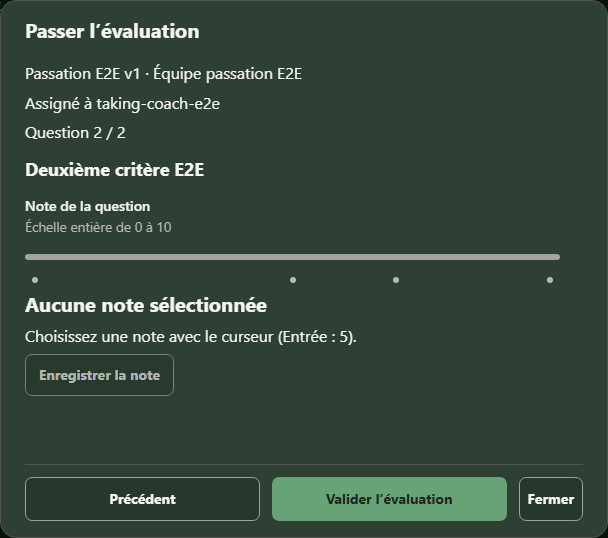
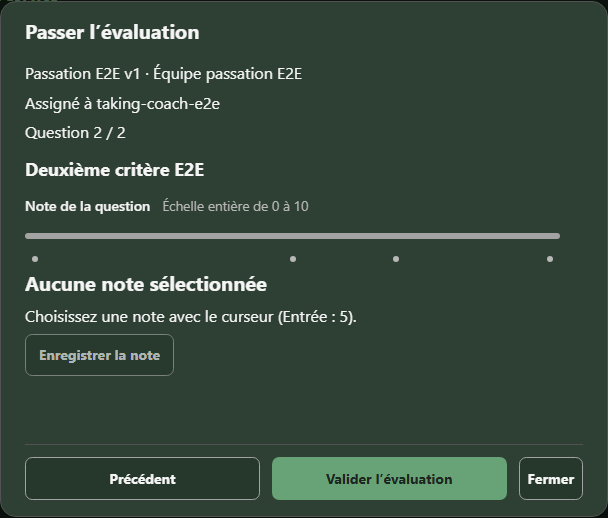
fix(mep-044): keep rating scale within compact dialog bounds

diff --git a/frontend/e2e/evaluation-rating-scale.spec.ts b/frontend/e2e/evaluation-rating-scale.spec.ts
@@ -71,6 +71,13 @@ for (const viewport of [
       .click();
     const dialog = page.getByRole("dialog");
     const slider = dialog.getByRole("slider");
+    if (viewport.width >= 1280) {
+      const label = (await dialog
+        .locator(".taking-content .taking-label")
+        .boundingBox())!;
+      const scale = (await dialog.locator("#score-scale").boundingBox())!;
+      expect(scale.y).toBeLessThan(label.y + label.height);
+    }
     const measurements = [];
     for (const theme of ["day", "night"]) {
       await page.locator("html").evaluate((root, value) => {
@@ -112,6 +119,19 @@ for (const viewport of [
             dialog.getByText("Note enregistrée", { exact: true }),
           ).toBeVisible();
         }
+        await dialog.locator("output").scrollIntoViewIfNeeded();
+        const noteVisible = await dialog
+          .locator("output")
+          .evaluate((element) => {
+            const text = document.createRange();
+            text.selectNodeContents(element);
+            const note = text.getBoundingClientRect();
+            const body = element
+              .closest(".taking-content")!
+              .getBoundingClientRect();
+            return note.top >= body.top && note.bottom <= body.bottom;
+          });
+        expect(noteVisible).toBe(true);
         for (const { value: palette } of palettes) {
           await page.locator("html").evaluate((root, value) => {
             (root as HTMLElement).dataset.palette = value;

diff --git a/frontend/src/TakingContentSizing.tsx b/frontend/src/TakingContentSizing.tsx
@@ -25,11 +25,16 @@ export function TakingContentSizing({ run, revision, readonly }: Props) {
                 data-text={`Question ${run.questions.length} / ${run.questions.length}`}
               />
               <h3 className="taking-question-title" data-text={question.text} />
-              <span className="taking-label" data-text="Note de la question" />
-              <span
-                className="taking-scale"
-                data-text="Échelle entière de 0 à 10"
-              />
+              <div className="taking-score-caption">
+                <span
+                  className="taking-label"
+                  data-text="Note de la question"
+                />
+                <span
+                  className="taking-scale"
+                  data-text="Échelle entière de 0 à 10"
+                />
+              </div>
               <span className="taking-range" />
               <div className="appreciation-scale" />
               {marker?.text.trim() && (

diff --git a/frontend/src/EvaluationScoreInput.tsx b/frontend/src/EvaluationScoreInput.tsx
@@ -17,12 +17,14 @@ export function EvaluationScoreInput({ question, disabled, onSelect }: Props) {
   const position = score ?? 5;
   return (
     <>
-      <label className="taking-label" htmlFor="evaluation-score">
-        Note de la question
-      </label>
-      <span className="taking-scale" id="score-scale">
-        Échelle entière de 0 à 10
-      </span>
+      <div className="taking-score-caption">
+        <label className="taking-label" htmlFor="evaluation-score">
+          Note de la question
+        </label>
+        <span className="taking-scale" id="score-scale">
+          Échelle entière de 0 à 10
+        </span>
+      </div>
       <input
         className="taking-range"
         id="evaluation-score"

diff --git a/frontend/src/evaluation-rating.css b/frontend/src/evaluation-rating.css
@@ -1,3 +1,14 @@
+.taking-score-caption {
+  display: flex;
+  flex-wrap: wrap;
+  align-items: baseline;
+  gap: 0 0.75rem;
+  margin-top: 0.55rem;
+}
+.taking-score-caption .taking-label {
+  margin-top: 0;
+}
+
 .taking-scale {
   display: block;
   color: var(--muted);

diff --git a/README.md b/README.md
@@ -92,7 +92,7 @@ Ils planifient pour une équipe un modèle immédiat, fixe, mensuel ou trimestri
 
 La correction UX de la modale « Passer l’évaluation » conserve les notes entières 0–10 et le descriptif du repère inférieur le plus proche. Elle affiche uniquement les repères explicitement renseignés, sans infobulle ni interaction au survol, et organise une modale compacte et stable avec un seul défilement vertical lorsque la hauteur disponible le nécessite, sans changer les contrats API. Les parcours de versionnement vérifient que les descriptifs d’une passation restent ceux de sa version d’origine. Le focus du curseur de notation est limité à un anneau discret autour de sa poignée au clavier ; le champ entier ne reçoit aucun encadrement, sans modifier les dimensions ou les actions de la modale.
 
-[MEP-044](docs/quality/mep-044/README.md) rend l’échelle entière 0–10 visible et accessible avant toute réponse et indique la valeur réelle du repère inférieur, avec preuves clair/sombre, clavier et mobile ; les snapshots, calculs et sauvegardes sont conservés. MEP-007 garantit une notation explicite : une question sans réponse reste non renseignée, distincte de 0 et de 5. Le curseur 0–10 et les repères sont conservés ; seules les notes choisies sont enregistrées, la reprise préserve les réponses et la finalisation exige toujours la complétude métier. La route `/evaluations` propose un parcours de passation persistante des modèles planifiés : l’assigné répond aux questions ordonnées, reprend un brouillon et finalise ses notes de 0 à 10. Le tableau distingue l’assigné de l’auteur réel de la complétion. Dans son organisation, un Admin peut compléter à la place de l’assigné puis réviser une évaluation finalisée sans altérer l’auteur ni la date initiaux ; la dernière révision reste attribuée et datée. Les finalisations et révisions significatives alimentent le Journal d’activité existant. Après une passation ponctuelle complétée, une équipe peut replanifier le même modèle : une nouvelle passation indépendante conserve l’historique et les anciens résultats. Les planifications encore actives bloquent les doublons.
+[MEP-044](docs/quality/mep-044/README.md) rend l’échelle entière 0–10 visible et accessible avant toute réponse et indique la valeur réelle du repère inférieur, avec preuves clair/sombre, clavier et mobile ; les snapshots, calculs et sauvegardes sont conservés. Le libellé compact doit aussi préserver le maximum desktop de 600 px sous Linux. MEP-007 garantit une notation explicite : une question sans réponse reste non renseignée, distincte de 0 et de 5. Le curseur 0–10 et les repères sont conservés ; seules les notes choisies sont enregistrées, la reprise préserve les réponses et la finalisation exige toujours la complétude métier. La route `/evaluations` propose un parcours de passation persistante des modèles planifiés : l’assigné répond aux questions ordonnées, reprend un brouillon et finalise ses notes de 0 à 10. Le tableau distingue l’assigné de l’auteur réel de la complétion. Dans son organisation, un Admin peut compléter à la place de l’assigné puis réviser une évaluation finalisée sans altérer l’auteur ni la date initiaux ; la dernière révision reste attribuée et datée. Les finalisations et révisions significatives alimentent le Journal d’activité existant. Après une passation ponctuelle complétée, une équipe peut replanifier le même modèle : une nouvelle passation indépendante conserve l’historique et les anciens résultats. Les planifications encore actives bloquent les doublons.
 
 ## Installation en développement
 

diff --git a/docs/quality/mep-044/README.md b/docs/quality/mep-044/README.md
@@ -19,7 +19,7 @@ Chromium sur Windows, zoom 100 %, palette Vert pour les captures, dix palettes p
 | Géométrie | Copies intrinsèques et inertes stabilisent les actions | Même libellé d’échelle et de repère dans les copies ; aucun nouveau scroll |
 
 Modifications applicatives : `EvaluationScoreInput`, `AppreciationScale`,
-`TakingContentSizing` et six lignes dans `evaluation-rating.css`.
+`TakingContentSizing` et les styles de l’en-tête dans `evaluation-rating.css`.
 Aucun calcul, règle métier, contrat API, migration, mécanisme de notation ou persistance modifié.
 Aucun composant/fichier de résultats, configuration Git, hook ou workflow modifié.
 
@@ -38,6 +38,23 @@ Refus réel : finalisation incomplète désactivée et HTTP 400, notes inchangé
 puis réessai dans le parcours de layout ; aucune réponse implicite après focus/navigation.
 Le test de version vérifie l’ancien descriptif v1 après activation de v2, puis le nouveau pour v2.
 
+## Correction de hauteur détectée par la CI
+
+Le 2026-10-23, la [CI du premier SHA `fd85621`](https://github.com/GaranceRichard/assess-teams/actions/runs/39959414795)
+refuse deux cas desktop : hauteur Linux 612,296875 px, au lieu de `<600` dans
+`evaluation-taking-layout`, malgré les campagnes Windows vertes. MEP-044 reste ouvert.
+L’en-tête regroupe maintenant le libellé et l’échelle sur une ligne lorsque la largeur suffit,
+avec retour à la ligne naturel sinon. Les copies de dimensionnement suivent le même contenu.
+Le seuil de 600 px, la typographie, les actions et les règles de scroll restent inchangés.
+Le contrôle de ligne desktop ajouté à `evaluation-rating-scale` échoue avant la correction
+(307,125 attendu strictement inférieur à 307,125), puis passe après.
+Le style local `taking-score-caption` évite les espacements génériques des titres sans modifier
+les styles partagés. Le texte de la note est vérifié intégralement lisible dans le corps visible,
+après le défilement prévu sur petit écran si nécessaire. Les 12 E2E ciblés échelle/layout/focus
+passent ; le contrôle final d’accès à la note et des contrastes passe sur les trois viewports.
+Les captures du 23 octobre montrent ce correctif.
+La confirmation de la hauteur Linux et les nouveaux gates exhaustifs restent attendus avant clôture.
+
 ## Preuves UX et validation
 
 Les mesures/captures de `evaluation-rating-scale.spec.ts` complètent les suites existantes :
@@ -47,8 +64,8 @@ Les états restent distingués par leur texte et les attributs du contrôle, ind
 Le focus clavier et les petits écrans 568×320, 375×667 et 1920×1080 restent couverts par les tests existants.
 Les éléments essentiels doivent rester accessibles par l’unique scroll du corps de la modale.
 
-Le plan exhaustif local passe : 1 434 tests backend (97,48 %), 428 frontend (quatre seuils >90 %),
-82 E2E application et 10 démo ; lint, formatage, typecheck, build et 200 lignes conformes.
+Les campagnes locales initiales passent : 1 434 tests backend (97,48 %), 428 frontend
+(quatre seuils >90 %), 82 E2E application et 10 démo ; leur limite Linux est décrite ci-dessous.
 Les trois contrôles de lisibilité passent ; 840 mesures, minimum 5.646:1.
 Les [exécutions et captures](executions.md) permettent la revue des six combinaisons thème/viewport.
 Les [commandes et résultats](validations.md), [mesures](mesures.md) et

diff --git a/docs/quality/mep-044/sources.md b/docs/quality/mep-044/sources.md
@@ -1,15 +1,15 @@
 # Entrées des preuves — MEP-044
 
-Référence : `f327f71` ; SHA-256 du contenu Git (LF) du candidat pour la présentation, les mesures et le refus inter-version.
+Référence de l’audit : `f327f71` ; correction de hauteur depuis `fd85621` ; SHA-256 du contenu Git (LF) du candidat pour la présentation, les mesures et le refus inter-version.
 Le SHA intégré et sa CI seront consignés après publication.
 
 | Fichier | SHA-256 |
 | --- | --- |
[12 lines of base64/hex data omitted]

diff --git a/docs/quality/mep-044/validations.md b/docs/quality/mep-044/validations.md
@@ -20,3 +20,17 @@ Les quatre scopes repository/backend/frontend/E2E ont chacun un statut 0 dans le
 Les refus affichés pendant les tests du socle qualité sont les scénarios négatifs attendus ;
 les gates réels terminent sans échec.
 Pre-push, publication et CI du SHA exact restent en attente ; MEP-044 reste ouvert.
+
+## Correction après CI Linux du premier SHA
+
+La [CI `fd85621`](https://github.com/GaranceRichard/assess-teams/actions/runs/39959414795) échoue
+sur deux hauteurs desktop de 612,296875 px, seuil existant `<600` conservé.
+Le contrôle de ligne ajouté à `evaluation-rating-scale` reproduit la cause avant correction :
+`1 failed, 2 passed`, échelle sur une ligne supplémentaire.
+Après l’en-tête compact : `quality:targeted e2e`, sélection `evaluation-rating-scale`,
+`evaluation-taking-layout`, `evaluation-rating-focus` : `12 passed (1.6m)`.
+Le correctif sera republié avec pre-push exhaustif et CI exacte ; aucun gate n’est contourné.
+
+Le contrôle d’accès final à la note utilise ses rectangles de texte rendu, après défilement
+du corps si nécessaire : `quality:targeted e2e e2e/evaluation-rating-scale.spec.ts`,
+`3 passed (39.3s)` ; 840 mesures, minimum 5,646:1. Les styles communs restent inchangés.

diff --git a/docs/quality/mep-044/mesures.md b/docs/quality/mep-044/mesures.md
@@ -1,6 +1,6 @@
 # Mesures UX-03/07 — MEP-044
 
-2026-10-22, Codex ; Chromium/Windows, Coach fictif, zoom 100 %.
+2026-10-23, Codex ; Chromium/Windows, Coach fictif, zoom 100 %.
 Sources : [empreintes](sources.md). Valeurs composées sur les surfaces rendues, seuil texte 4,5:1.
 840 mesures, 60 paires de rôles/couleurs distinctes ; minimum 5.646:1.
 Chaque combinaison est mesurée en 1280×720, 390×844 et 320×568, sans réponse puis 5/0/10/9.

diff --git a/docs/quality/mep-044/executions.md b/docs/quality/mep-044/executions.md
@@ -1,6 +1,6 @@
 # Exécutions UX-07 — MEP-044
 
-2026-10-22, Codex ; Chromium/Windows, Coach fictif `taking-fixture`, zoom 100 %, Vert.
+2026-10-23, Codex ; Chromium/Windows, Coach fictif `taking-fixture`, zoom 100 %, Vert.
 Candidat : [empreintes exactes](sources.md), comparé à `f327f71`. Aucun identifiant réel ni secret.
 
 | Scénario | Viewport | Thème | Actions et mesures | Preuve | Résultat |
